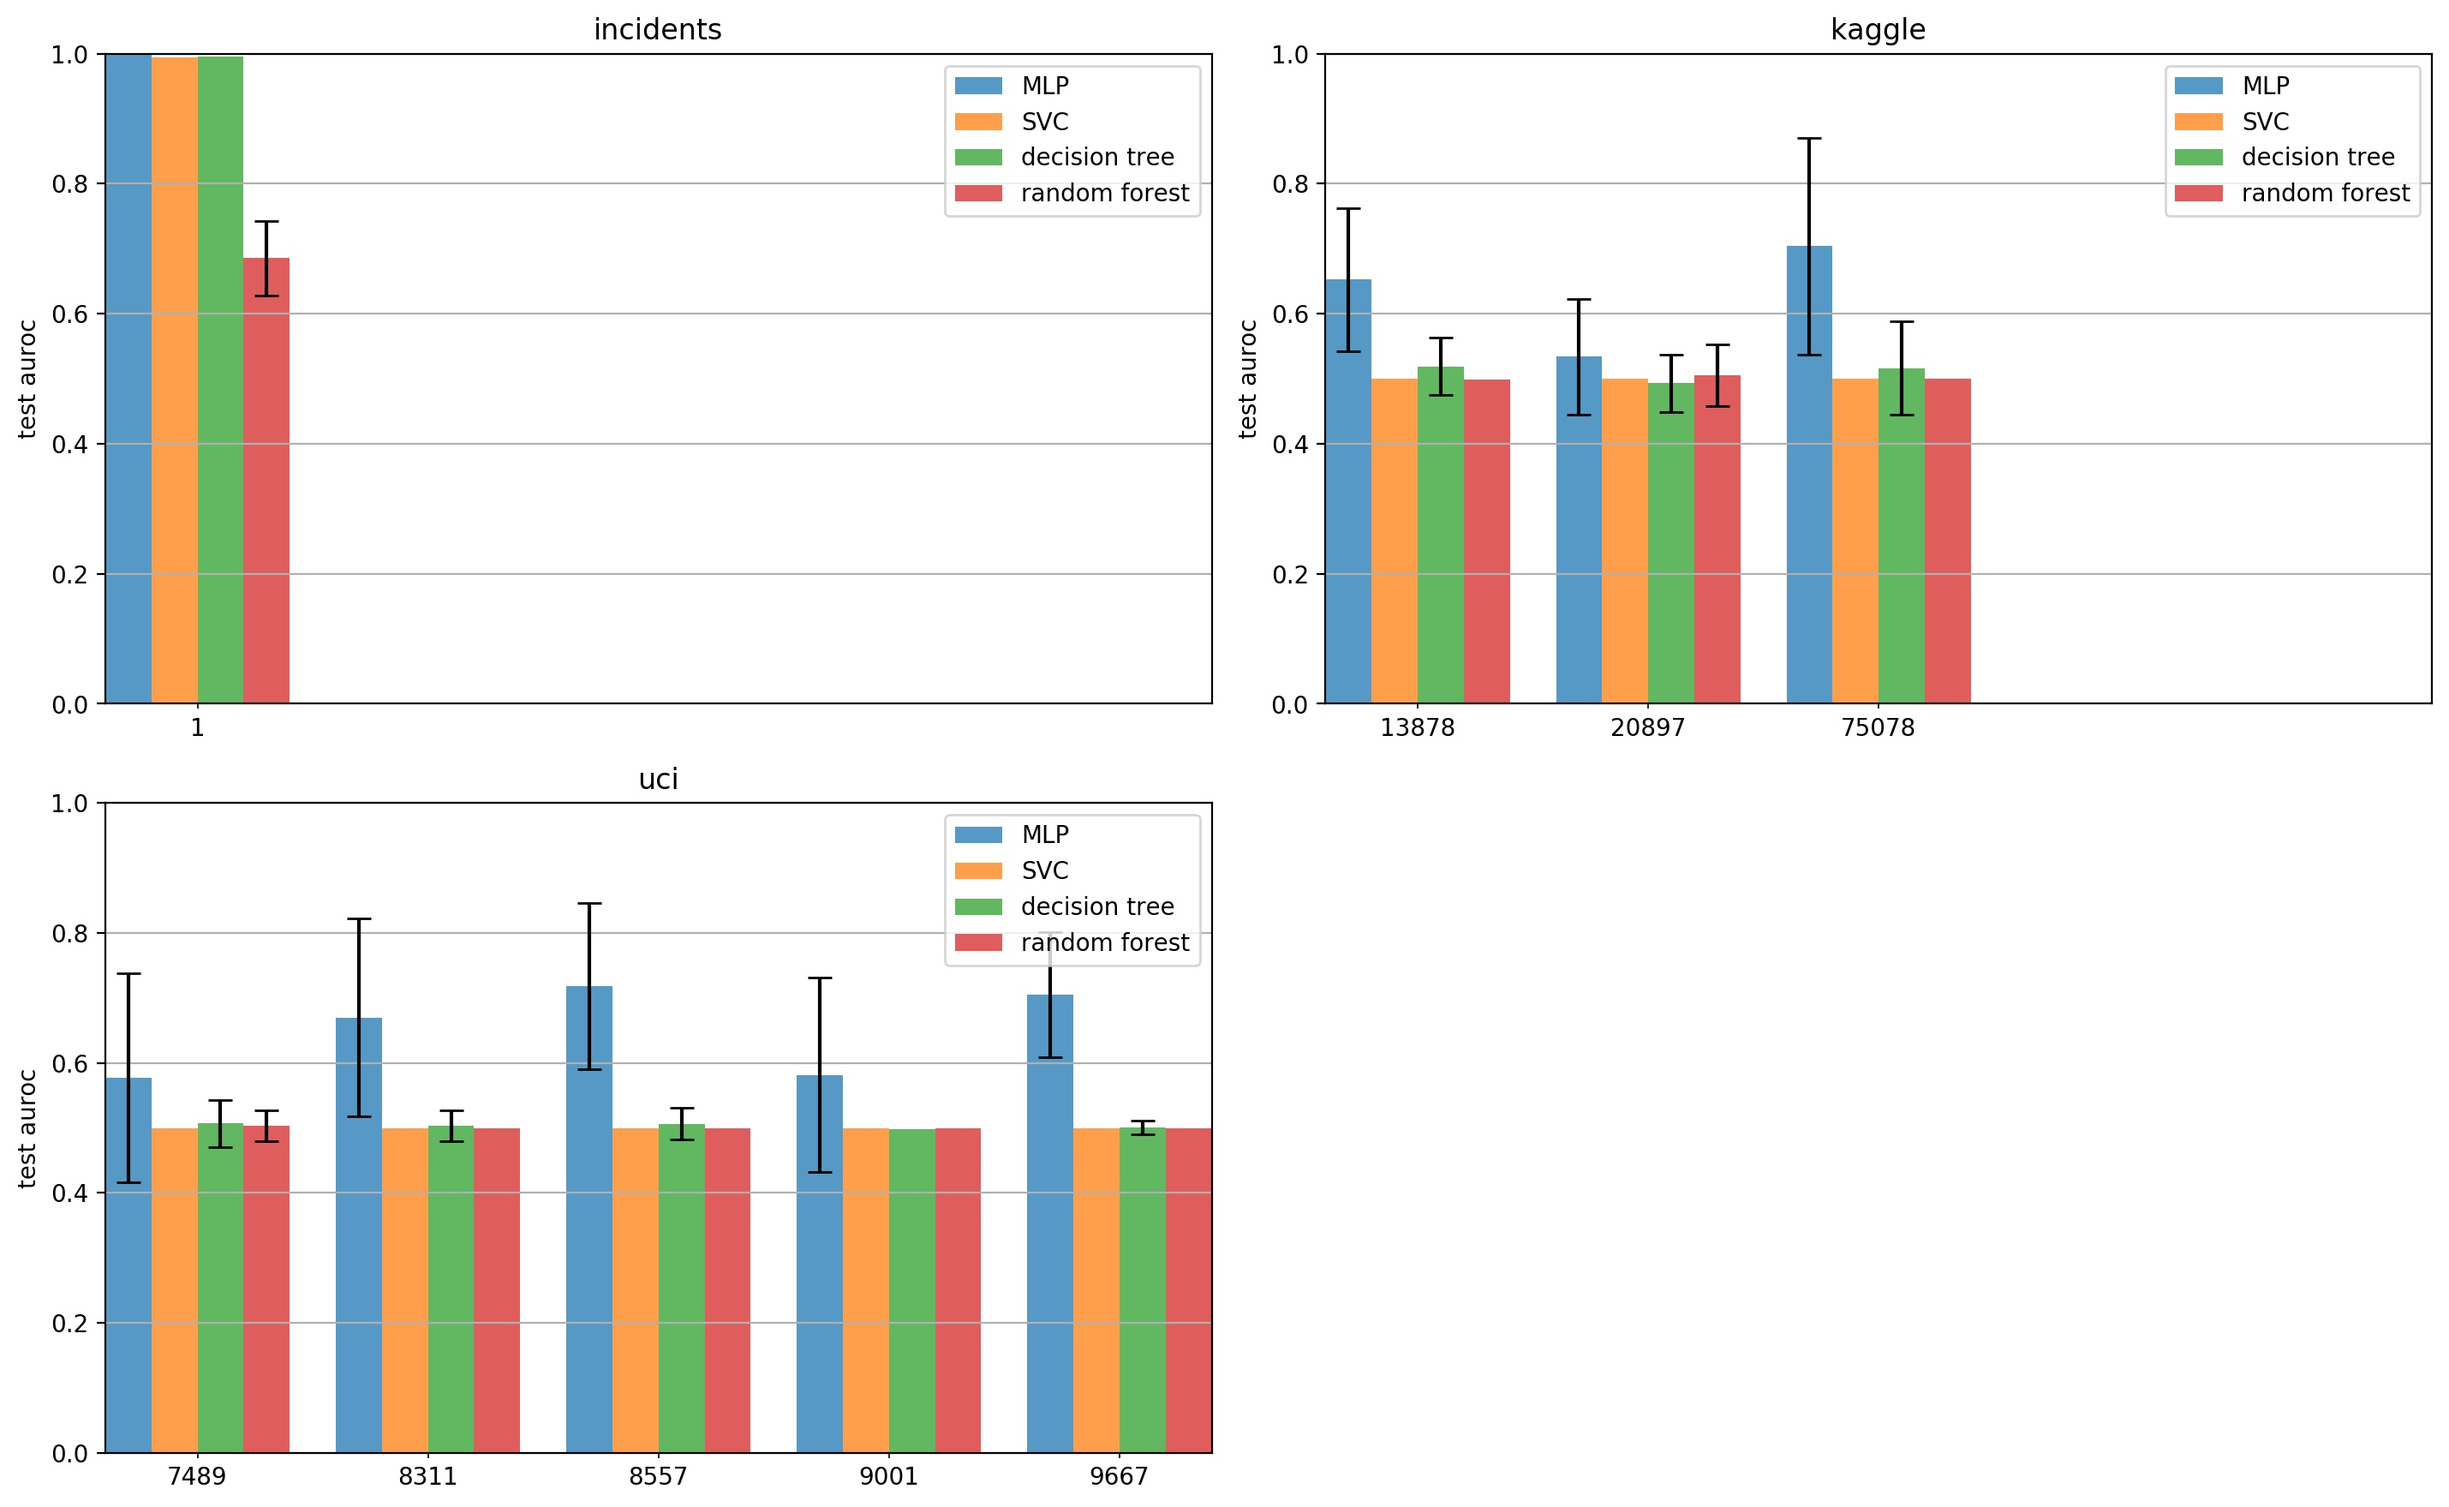
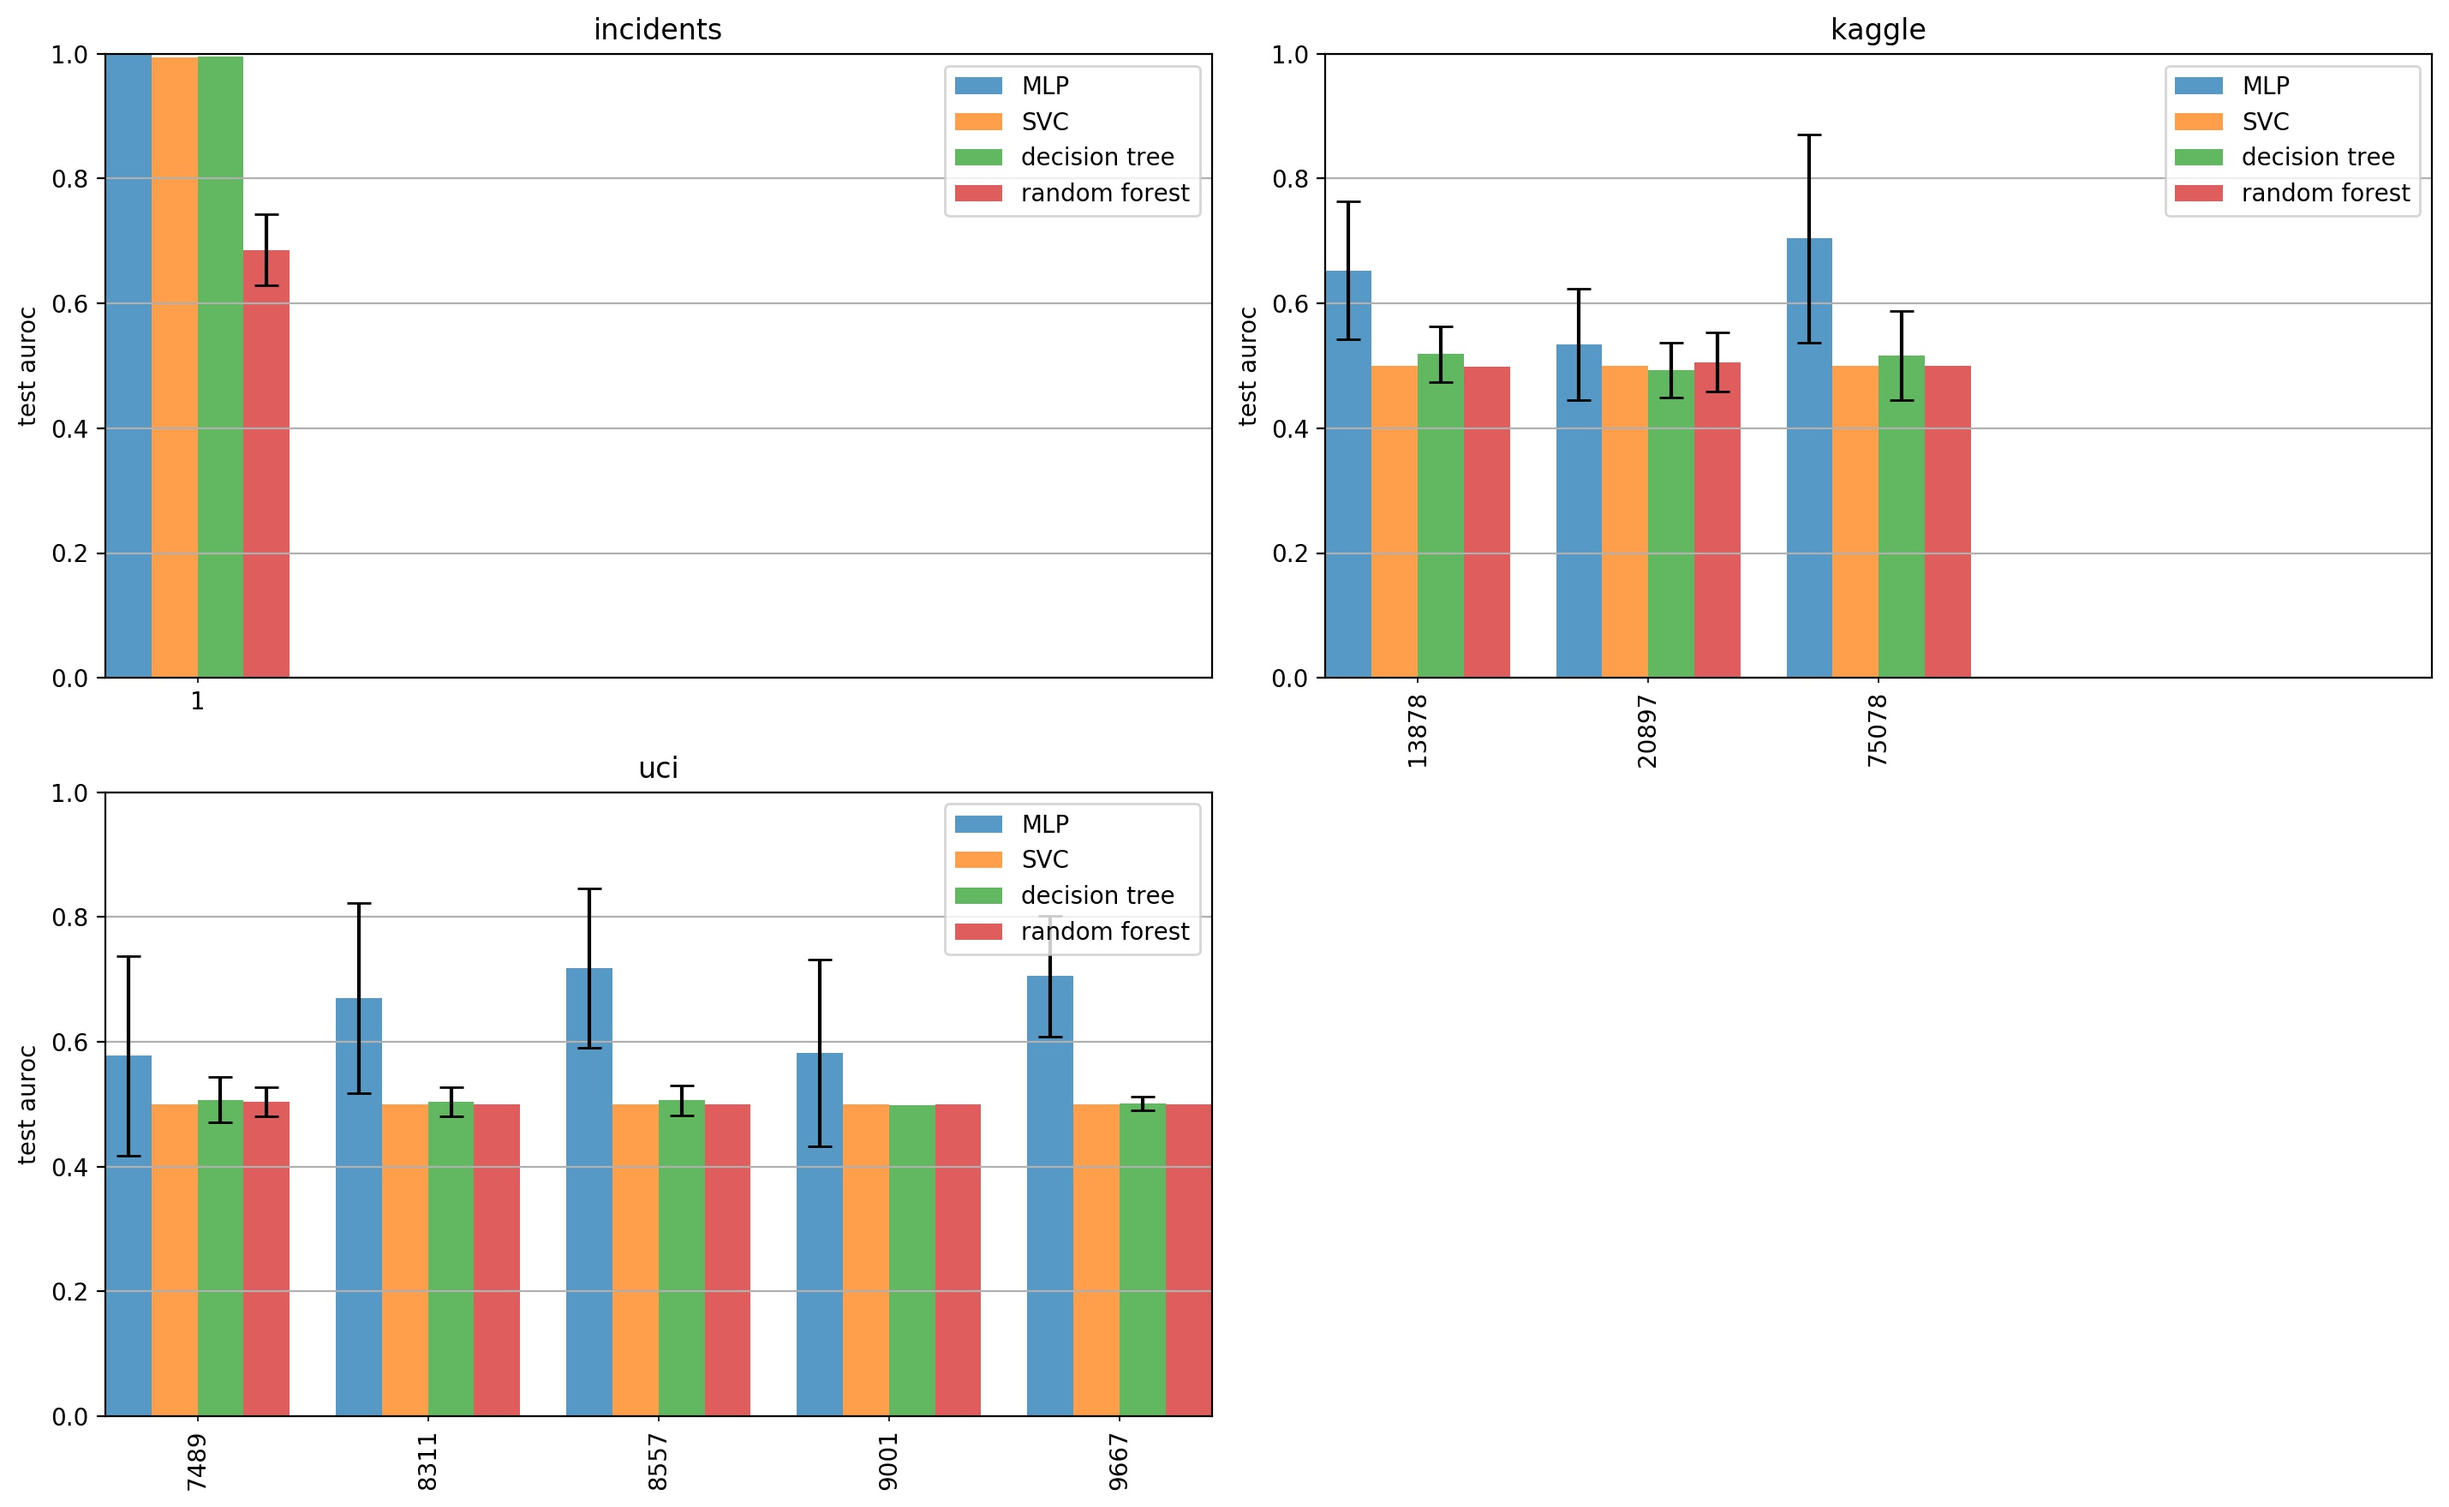
Removed automatic rotation as it did not scale well

diff --git a/histograms/utils/plot_bar_labels.py b/histograms/utils/plot_bar_labels.py
@@ -12,7 +12,7 @@ def plot_bar_labels(
     vertical:bool,
     levels:int,
     bar_width:float,
-    minor_rotation:Union[str, float],
+    minor_rotation:float,
     major_rotation:float
 ):
     other_positions = set()
@@ -31,14 +31,11 @@ def plot_bar_labels(
             axes.set_xticks(positions, minor=minor)
             labels = axes.set_xticklabels(labels, minor=minor)
             if minor:
-                if minor_rotation=="auto" and any(len(label.get_text()) > 3 for label in labels):
-                    minor_rotation = 90
-                if minor_rotation != "auto":
-                    axes.tick_params(
-                        axis='x',
-                        which='minor',
-                        labelrotation=minor_rotation
-                    )
+                axes.tick_params(
+                    axis='x',
+                    which='minor',
+                    labelrotation=minor_rotation
+                )
                 axes.tick_params(
                     axis='x',
                     which='major',
@@ -54,12 +51,11 @@ def plot_bar_labels(
             axes.set_yticks(positions, minor=minor)
             labels = axes.set_yticklabels(labels, minor=minor)
             if minor:
-                if minor_rotation != "auto":
-                    axes.tick_params(
-                        axis='x',
-                        which='minor',
-                        labelrotation=minor_rotation
-                    )
+                axes.tick_params(
+                    axis='x',
+                    which='minor',
+                    labelrotation=minor_rotation
+                )
                 axes.tick_params(
                     axis='y',
                     which='major',

diff --git a/histograms/histogram.py b/histograms/histogram.py
@@ -28,7 +28,7 @@ def histogram(
     subplots: bool = False,
     plots_per_row: Union[int, str] = "auto",
     humanize_time_features: bool = True,
-    minor_rotation:Union[str, float]="auto",
+    minor_rotation:float=0,
     major_rotation:float=0
 ) -> Tuple[Figure, Axes]:
     """Plot histogram corresponding to given dataframe, containing y value and optionally std.
